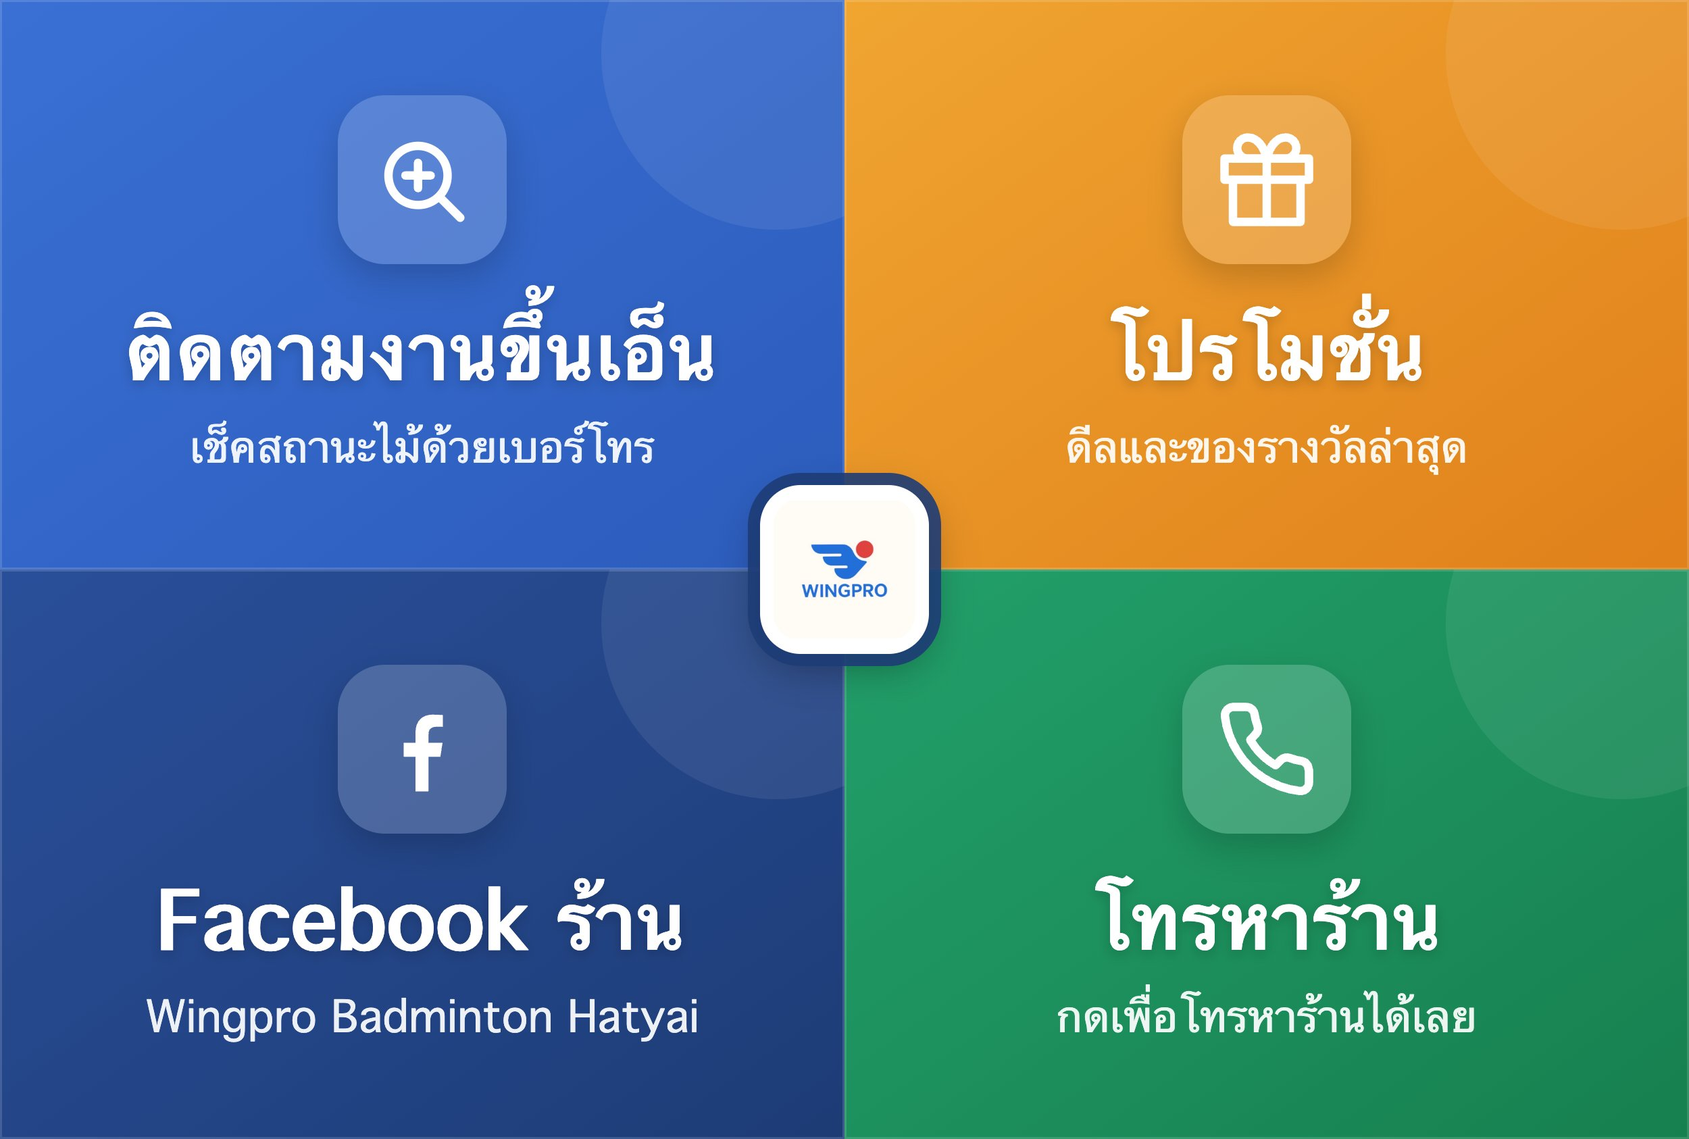
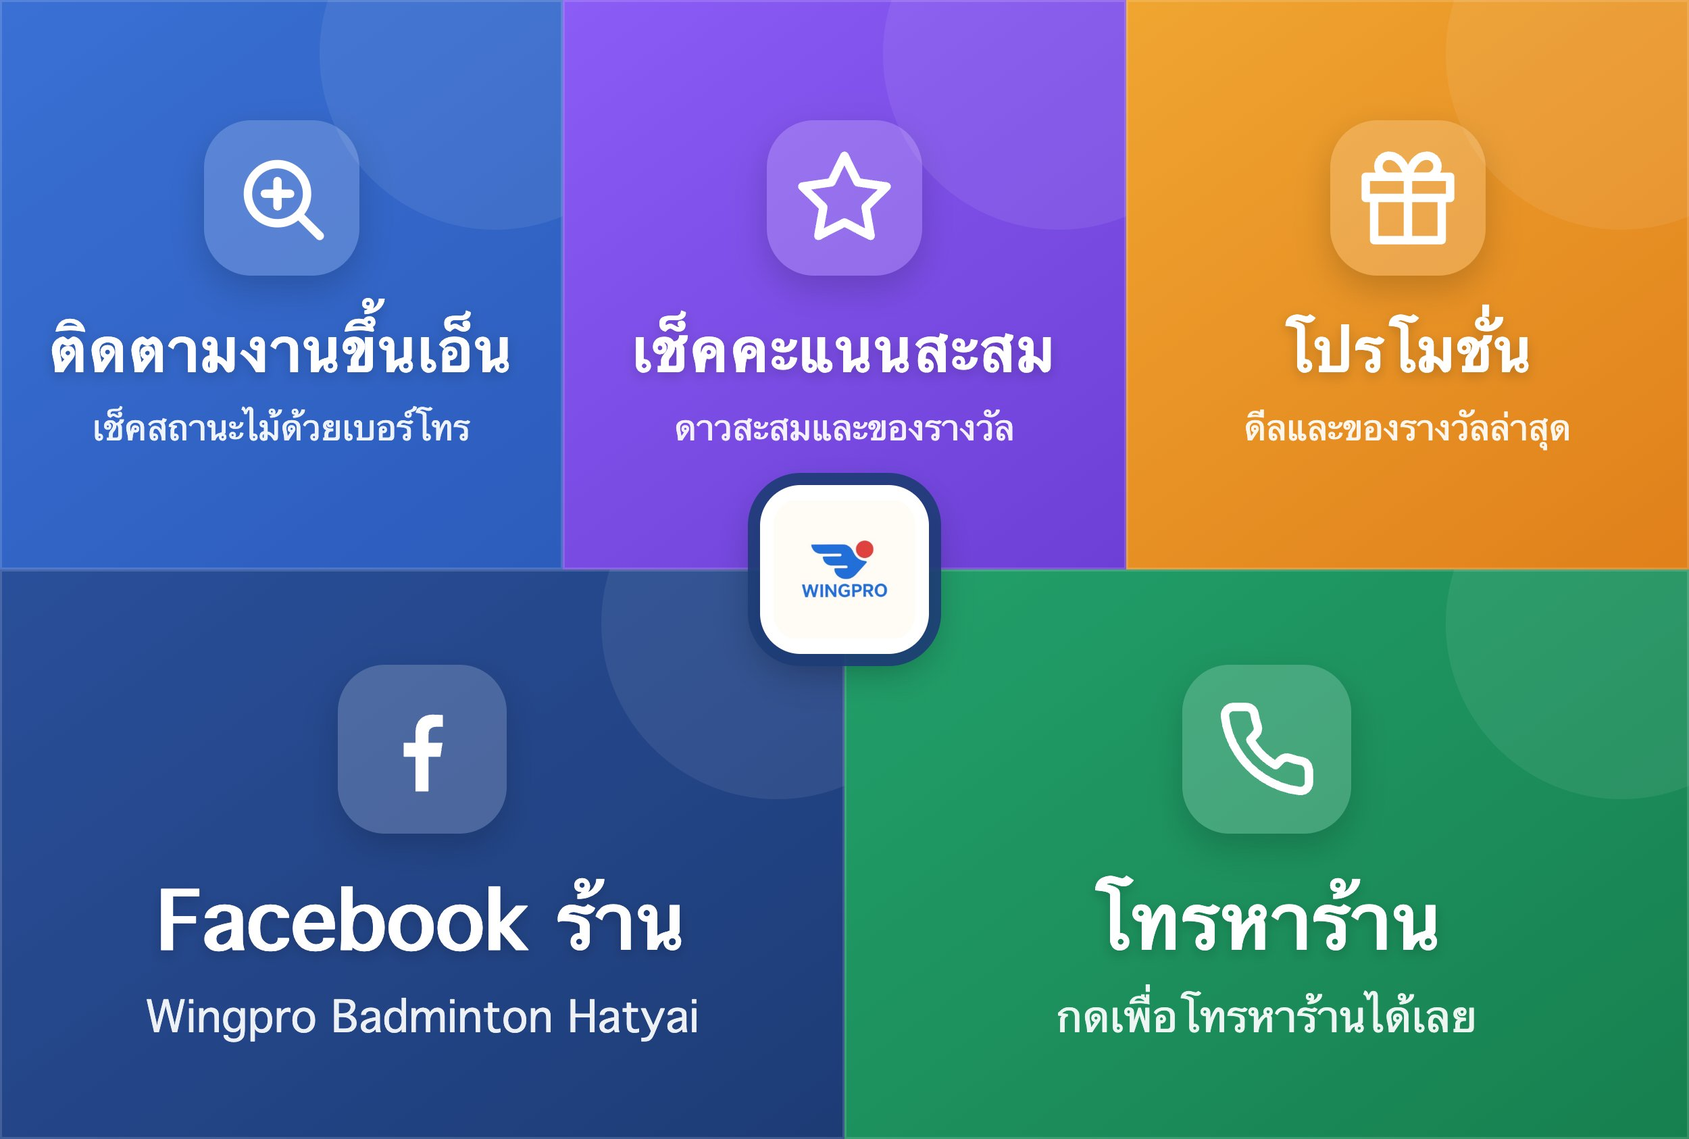
LINE rich menu: เช็คคะแนนสะสม button (5 buttons: 3 on top, 2 below)
- Stars card (Flex): count, a dot per stamp, what each reward still needs, the promo's stamping period
- Linked LINE account gets its card straight away (+ a link to its open job to redeem); otherwise type a phone
- A typed phone now answers with the stars card and the jobs still at the shop (no link, no name)
- memberStatus() moved to lib/member-status.ts, shared by the tracking page and the webhook

Changed region(s): [[0.0312, 0.0, 0.936, 0.5243]]

diff --git a/lib/line-message.ts b/lib/line-message.ts
@@ -182,3 +182,83 @@ export function promotionsMessage(promotions: Promotion[], { siteUrl = "", phone
   }));
   return carousel(`โปรโมชั่น Wingpro Badminton (${promotions.length})`, bubbles);
 }
+
+type Member = {
+  stars: number; stringNeed: number; socksNeed: number; stringAvailable: boolean; socksAvailable: boolean;
+  stringUsed: number; socksUsed: number; rewardCap: number | null; socksProductName: string | null; posMinAmount?: number;
+  promo?: { phase: string | null; start: string | null; end: string | null };
+};
+
+const PURPLE = "#6D3FD6";
+const thaiDay = (date: string) => new Date(date + "T12:00:00").toLocaleDateString("th-TH", { day: "numeric", month: "short", year: "2-digit", timeZone: "Asia/Bangkok" });
+
+// Same wording as the tracking page's stamp card, so the two never tell a customer different things.
+export function promoNote(promo: Member["promo"]) {
+  if (!promo?.phase) return "";
+  const { phase, start, end } = promo;
+  if (phase === "off") return "ปิดรับสะสมแต้มชั่วคราว · แต้มและสิทธิ์ที่มีอยู่ยังใช้ได้ตามปกติ";
+  if (phase === "before") return end ? `โปรโมชั่นสะสมแต้ม ${thaiDay(start!)} – ${thaiDay(end)}` : `โปรโมชั่นสะสมแต้มเริ่ม ${thaiDay(start!)}`;
+  if (phase === "after") return `โปรโมชั่นสะสมแต้มสิ้นสุดแล้วเมื่อ ${thaiDay(end!)} · แต้มและสิทธิ์ที่มีอยู่ยังใช้ได้ตามปกติ`;
+  if (end) return `สะสมแต้มได้ถึง ${thaiDay(end)}`;
+  if (start) return `สะสมแต้มได้ตั้งแต่ ${thaiDay(start)} เป็นต้นไป`;
+  return "";
+}
+
+// "เช็คคะแนนสะสม": stars so far, a dot per stamp (the socks milestone marked), and what each reward still needs.
+// trackUrl (the customer's own open job) is only passed for a LINE account already linked to that job - someone
+// who just typed a phone number sees the numbers, never a link into another person's job.
+export function memberCardMessage(member: Member, { trackUrl = "" }: { trackUrl?: string } = {}) {
+  const need = Math.max(1, member.stringNeed);
+  const dots = need <= 20 ? Array.from({ length: need }, (_, i) => ({
+    type: "box", layout: "vertical", width: "20px", height: "20px", cornerRadius: "10px", justifyContent: "center",
+    backgroundColor: i < member.stars ? PURPLE : TRACK,
+    ...(i === member.socksNeed - 1 && member.socksProductName ? { borderWidth: "2px", borderColor: "#E0801A" } : {}),
+    contents: [text(i < member.stars ? "★" : " ", { size: "xxs", color: "#FFFFFF", align: "center" })],
+  })) : [];
+  const cap = member.rewardCap === null || member.rewardCap === undefined ? "ฟรีค่าขึ้นเอ็นทั้งหมด" : `เอ็นมูลค่าไม่เกิน ฿${baht(member.rewardCap)}`;
+  const reward = (ready: boolean, readyText: string, waitText: string) => ({
+    type: "box", layout: "vertical", paddingAll: "10px", cornerRadius: "10px", backgroundColor: ready ? "#E6F6EE" : "#F4F6FB",
+    contents: [text(ready ? readyText : waitText, { size: "sm", color: ready ? "#17804F" : NAVY, weight: ready ? "bold" : "regular" })],
+  });
+  const note = promoNote(member.promo);
+  const ready = member.stringAvailable || member.socksAvailable;
+  return {
+    type: "flex",
+    altText: `คะแนนสะสม ${member.stars} ดาว`,
+    contents: {
+      type: "bubble",
+      size: "mega",
+      header: {
+        type: "box", layout: "vertical", paddingAll: "18px", backgroundColor: PURPLE,
+        contents: [
+          text("WINGPRO BADMINTON", { size: "xs", color: "#E5DBFF", weight: "bold" }),
+          text("บัตรสะสมดาว", { size: "xl", color: "#FFFFFF", weight: "bold" }),
+        ],
+      },
+      body: {
+        type: "box", layout: "vertical", paddingAll: "18px", spacing: "md",
+        contents: [
+          {
+            type: "box", layout: "baseline", spacing: "sm",
+            contents: [text(String(member.stars), { size: "3xl", weight: "bold", color: PURPLE, flex: 0 }), text(`/ ${need} ดาว`, { size: "md", color: MUTED })],
+          },
+          ...(dots.length ? [{ type: "box", layout: "horizontal", spacing: "xs", flexWrap: "wrap", contents: dots }] : []),
+          ...(member.socksProductName ? [reward(member.socksAvailable,
+            `🧦 แลก${member.socksProductName}ฟรีได้แล้ว! (ครบ ${member.socksNeed} ดาว)`,
+            `สะสมอีก ${Math.max(0, member.socksNeed - member.stars)} ดาว แลก${member.socksProductName}ฟรี (ครบ ${member.socksNeed} ดาว)`)] : []),
+          reward(member.stringAvailable,
+            `🎁 ขึ้นเอ็นฟรีได้แล้ว! (ครบ ${need} ดาว · ${cap})`,
+            `สะสมอีก ${Math.max(0, need - member.stars)} ดาว รับสิทธิ์ขึ้นเอ็นฟรี (ครบ ${need} ดาว · ${cap})`),
+          text(ready ? "แลกได้ที่หน้าติดตามสถานะไม้ หรือแจ้งพนักงานที่ร้าน · แลกแล้วดาวเริ่มนับใหม่" : `ได้ 1 ดาวทุกครั้งที่ขึ้นเอ็น หรือซื้อสินค้าที่ร้าน${member.posMinAmount ? ` ครบ ฿${baht(member.posMinAmount)}` : ""}`, { size: "xs", color: MUTED }),
+          ...(note ? [text(note, { size: "xs", color: "#E0801A" })] : []),
+        ],
+      },
+      ...(/^https:\/\//.test(trackUrl) ? {
+        footer: {
+          type: "box", layout: "vertical", paddingAll: "14px",
+          contents: [{ type: "button", style: "primary", color: PURPLE, height: "sm", action: { type: "uri", label: ready ? "แลกของรางวัล" : "ดูบัตรสะสมดาว", uri: trackUrl } }],
+        },
+      } : {}),
+    },
+  };
+}

diff --git a/app/api/line/route.ts b/app/api/line/route.ts
@@ -1,6 +1,7 @@
 import {runtime,db,all,one,notifyJob,replyLine,siteUrl,statuses,normalizeJobStatus} from '@/lib/server';
 import {DEFAULT_SHOP} from '@/lib/shop-hours';
-import {promotionsMessage,trackJobsMessage} from '@/lib/line-message';
+import {memberCardMessage,promotionsMessage,trackJobsMessage} from '@/lib/line-message';
+import {memberStatus} from '@/lib/member-status';
 
 // LINE OA webhook. Every request is signed with the channel secret; anything unsigned is rejected before parsing.
 async function verified(req:Request){
@@ -17,6 +18,7 @@ async function verified(req:Request){
 const ACTIVE_JOBS="status<>'ยกเลิก' AND status<>'คืนไม้แล้ว'";
 const text=(value:string)=>({type:'text',text:value});
 const ASK_PHONE=text('พิมพ์เบอร์โทรที่ใช้ตอนฝากไม้ได้เลย เช่น 0812345678 ระบบจะแสดงสถานะงานขึ้นเอ็นที่ยังอยู่ที่ร้าน');
+const ASK_PHONE_POINTS=text('พิมพ์เบอร์โทรที่ให้ไว้กับร้านได้เลย เช่น 0812345678 ระบบจะแสดงดาวสะสมและงานขึ้นเอ็นที่ยังอยู่ที่ร้าน');
 
 async function trackReply(jobs:any[],lineUser:string){
   const message=trackJobsMessage(jobs.map(j=>({...j,status:normalizeJobStatus(j.status)})),{steps:statuses,siteUrl:siteUrl(),lineUser});
@@ -30,10 +32,31 @@ async function onTrack(lineUser:string){
   return [...await trackReply(linked,lineUser),text('ถ้ามีไม้ที่ฝากด้วยเบอร์อื่น พิมพ์เบอร์นั้นมาได้เลย')];
 }
 
+async function pointsCard(phone:string,trackToken=''){
+  const config:any=await one('SELECT * FROM config WHERE id=1');
+  const member=await memberStatus(config,phone);
+  const base=siteUrl().replace(/\/$/,'');
+  return member?memberCardMessage(member,{trackUrl:trackToken&&base?`${base}/track/${trackToken}`:''}):null;
+}
+
+// A typed phone number answers both menu buttons at once (there is no conversation state to know which one asked):
+// that number's stars, then its jobs still at the shop. Anyone can type any number, so both stay compact - no name,
+// no link into the job (see trackJobsMessage / memberCardMessage).
 async function onPhone(digits:string,lineUser:string){
   const jobs=await all(`SELECT id,token,racket,status,paid,amount,created,line_user FROM jobs WHERE regexp_replace(phone,'\\D','','g')=? AND ${ACTIVE_JOBS} ORDER BY created DESC LIMIT 10`,digits);
-  if(!jobs.length)return [text('ไม่พบงานขึ้นเอ็นที่ยังอยู่ที่ร้านของเบอร์นี้ ถ้าคิดว่าไม่ถูกต้อง ติดต่อร้านได้เลย')];
-  return trackReply(jobs,lineUser);
+  const card=await pointsCard(digits);
+  const messages=[...(card?[card]:[]),...await trackReply(jobs,lineUser)];
+  return messages.length?messages:[text('ไม่พบข้อมูลของเบอร์นี้ ถ้าคิดว่าไม่ถูกต้อง ติดต่อร้านได้เลย')];
+}
+
+// "เช็คคะแนนสะสม": a LINE account already linked to a job (via the QR on its receipt) gets its card straight away,
+// with a button to its newest open job's tracking page where rewards are redeemed; otherwise ask for a phone.
+async function onPoints(lineUser:string){
+  const latest:any=await one("SELECT phone FROM jobs WHERE line_user=? AND phone IS NOT NULL AND phone<>'' ORDER BY created DESC LIMIT 1",lineUser);
+  if(!latest)return [ASK_PHONE_POINTS];
+  const open:any=await one(`SELECT token FROM jobs WHERE line_user=? AND paid=0 AND ${ACTIVE_JOBS} ORDER BY created DESC LIMIT 1`,lineUser);
+  const card=await pointsCard(latest.phone,open?.token||'');
+  return card?[card]:[ASK_PHONE_POINTS];
 }
 
 async function onPromotions(){
@@ -62,6 +85,7 @@ export async function POST(req:Request){
         const action=new URLSearchParams(e.postback?.data||'').get('action');
         if(action==='track')await replyLine(replyToken,await onTrack(lineUser));
         else if(action==='promo')await replyLine(replyToken,await onPromotions());
+        else if(action==='points')await replyLine(replyToken,await onPoints(lineUser));
         continue;
       }
       if(e.type!=='message'||e.message?.type!=='text')continue;
@@ -70,6 +94,7 @@ export async function POST(req:Request){
       if(link){await onLink(link[1],lineUser);continue;}
       // Typed text works the same as the rich-menu buttons, for anyone who types instead of tapping.
       if(/^ติดตาม/.test(message))await replyLine(replyToken,await onTrack(lineUser));
+      else if(/^(เช็ค|เช็ก)?(คะแนน|แต้ม|ดาว)/.test(message))await replyLine(replyToken,await onPoints(lineUser));
       else if(/^โปรโมชั่น|^โปร$/.test(message))await replyLine(replyToken,await onPromotions());
       else{
         const digits=message.replace(/[\s-]/g,'');

diff --git a/app/shop-settings.tsx b/app/shop-settings.tsx
@@ -144,7 +144,7 @@ export function MemberPanel({form,setForm,config,products,busy,onSave,Field}:any
 
 // ---------------------------------------------------------------- LINE OA: rich menu + promotions
 
-// Installs the 4-button rich menu (ติดตามงานขึ้นเอ็น / โปรโมชั่น / Facebook / โทร) on the shop's LINE OA. The link and
+// Installs the 5-button rich menu (ติดตามงานขึ้นเอ็น / เช็คคะแนนสะสม / โปรโมชั่น / Facebook / โทร) on the shop's LINE OA. The link and
 // phone number are saved as the shop's contact details too, so every customer-facing place shows the same ones.
 export function LineMenuPanel({config,lineReady,Field,onDone}:any){
   const [facebook,setFacebook]=useState(config.contact_facebook||''),[phone,setPhone]=useState(config.contact_phone||''),[busy,setBusy]=useState(false);
@@ -158,7 +158,7 @@ export function LineMenuPanel({config,lineReady,Field,onDone}:any){
     }catch(e:any){toast.error(e.message)}finally{setBusy(false)}
   };
   return <div className="panel report line-menu-panel"><h2>เมนูบน LINE OA (Rich menu)</h2>
-    <p className="muted">เมนู 4 ปุ่มด้านล่างแชท LINE ของร้าน: ติดตามงานขึ้นเอ็น (ลูกค้าพิมพ์เบอร์โทรเพื่อเช็คสถานะ), โปรโมชั่น, Facebook ร้าน และโทรหาร้าน</p>
+    <p className="muted">เมนู 5 ปุ่มด้านล่างแชท LINE ของร้าน: ติดตามงานขึ้นเอ็น, เช็คคะแนนสะสม (ลูกค้าพิมพ์เบอร์โทรเพื่อเช็ค), โปรโมชั่น, Facebook ร้าน และโทรหาร้าน · กดติดตั้งซ้ำเมื่อเปลี่ยนเมนู</p>
     <img className="line-menu-preview" src="/line-richmenu.jpg" alt="ตัวอย่าง rich menu"/>
     {!lineReady&&<div className="notice">ยังไม่ได้ตั้งค่า LINE Channel access token / secret จึงติดตั้งเมนูไม่ได้</div>}
     <Field label="ลิงก์ Facebook ร้าน"><input type="url" placeholder="https://www.facebook.com/..." value={facebook} onChange={e=>setFacebook(e.target.value)}/></Field>

diff --git a/lib/line-richmenu.ts b/lib/line-richmenu.ts
@@ -1,20 +1,24 @@
-// The shop's LINE OA rich menu: a 2x2 grid over public/line-richmenu.jpg (2500x1686). Pure data, so the layout and
-// actions are easy to check; app/api/line/richmenu installs it through the Messaging API.
+// The shop's LINE OA rich menu over public/line-richmenu.jpg (2500x1686): three buttons on the top row, two on the
+// bottom. Pure data, so the layout and actions are easy to check; app/api/line/richmenu installs it through the
+// Messaging API.
 export const RICH_MENU_NAME = "wingpro-main";
 export const RICH_MENU_IMAGE = "/line-richmenu.jpg";
 
+const postback = (label: string, data: string) => ({ type: "postback", label, data, displayText: label });
+
 export function richMenuBody({ facebook, phone }: { facebook: string; phone: string }) {
-  const half = { width: 1250, height: 843 };
+  const top = 843, bottom = 1686 - top;
   return {
     size: { width: 2500, height: 1686 },
     selected: true,
     name: RICH_MENU_NAME,
     chatBarText: "เมนูร้าน",
     areas: [
-      { bounds: { x: 0, y: 0, ...half }, action: { type: "postback", label: "ติดตามงานขึ้นเอ็น", data: "action=track", displayText: "ติดตามงานขึ้นเอ็น" } },
-      { bounds: { x: 1250, y: 0, ...half }, action: { type: "postback", label: "โปรโมชั่น", data: "action=promo", displayText: "โปรโมชั่น" } },
-      { bounds: { x: 0, y: 843, ...half }, action: { type: "uri", label: "Facebook ร้าน", uri: facebook } },
-      { bounds: { x: 1250, y: 843, ...half }, action: { type: "uri", label: "โทรหาร้าน", uri: `tel:${phone.replace(/[^0-9+]/g, "")}` } },
+      { bounds: { x: 0, y: 0, width: 833, height: top }, action: postback("ติดตามงานขึ้นเอ็น", "action=track") },
+      { bounds: { x: 833, y: 0, width: 834, height: top }, action: postback("เช็คคะแนนสะสม", "action=points") },
+      { bounds: { x: 1667, y: 0, width: 833, height: top }, action: postback("โปรโมชั่น", "action=promo") },
+      { bounds: { x: 0, y: top, width: 1250, height: bottom }, action: { type: "uri", label: "Facebook ร้าน", uri: facebook } },
+      { bounds: { x: 1250, y: top, width: 1250, height: bottom }, action: { type: "uri", label: "โทรหาร้าน", uri: `tel:${phone.replace(/[^0-9+]/g, "")}` } },
     ],
   };
 }

diff --git a/app/api/track/[token]/route.ts b/app/api/track/[token]/route.ts
@@ -1,27 +1,7 @@
-import {all,one} from '@/lib/server';
-import {DEFAULT_SHOP,bangkokToday,parseHours} from '@/lib/shop-hours';
-import {buildCustomers,promoOf,promoPhase,rewardDiscount} from '@/lib/customers';
-
-// The customer's own stamp progress, shown on their tracking page. Only their numbers (not their whole job/sale
-// history, and not the staff-only note) - built the same way as the "ลูกค้าสมาชิก" page, from just their own rows.
-// promo mirrors the shop's own setting exactly (lib/customers.ts's promoPhase, the same rule that gates new
-// stamps) so the customer sees why their stamps did or didn't move, not just the raw count.
-async function memberStatus(config:any,phone:string){
-  if(!('member_stamps_required' in config))return null;
-  const key=String(phone||'').replace(/\D/g,'');
-  if(key.length<9)return null;
-  const [jobs,sales]=await Promise.all([
-    all("SELECT customer,phone,racket,tension,created,status,paid,amount,reward_used FROM jobs WHERE regexp_replace(phone,'\\D','','g')=?",key),
-    all('SELECT created,total,customer_key,job_id,status,discount_reason FROM sales WHERE customer_key=?',key),
-  ]);
-  const promo=promoOf(config);
-  const [customer]=buildCustomers(jobs,{stampsRequired:config.member_stamps_required,socksStampsRequired:config.member_socks_stamps_required,sales,posMinAmount:config.member_pos_min_amount,promo});
-  if(!customer)return null;
-  // The socks reward stays off (even after the migration runs) until an owner actually picks a product for it.
-  const socksProduct=config.member_socks_product_id?await one('SELECT name FROM products WHERE id=? AND active=1',config.member_socks_product_id):null;
-  return {stars:customer.stars,stringNeed:customer.stringNeed,socksNeed:customer.socksNeed,stringAvailable:customer.stringAvailable,socksAvailable:customer.socksAvailable&&!!socksProduct,stringUsed:customer.stringUsed,socksUsed:customer.socksUsed,rewardCap:config.member_reward_cap??null,socksProductName:socksProduct?.name??null,
-    promo:{phase:promoPhase(promo,bangkokToday()),start:promo?.start??null,end:promo?.end??null}};
-}
+import {one} from '@/lib/server';
+import {DEFAULT_SHOP,parseHours} from '@/lib/shop-hours';
+import {rewardDiscount} from '@/lib/customers';
+import {memberStatus} from '@/lib/member-status';
 
 export async function GET(req:Request,{params}:any){
   const {token}=await params;

diff --git a/lib/member-status.ts b/lib/member-status.ts
@@ -1,0 +1,24 @@
+import {all,one} from './server';
+import {bangkokToday} from './shop-hours';
+import {buildCustomers,promoOf,promoPhase} from './customers';
+
+// A customer's own stamp progress, by phone: shown on their tracking page and on LINE ("เช็คคะแนนสะสม"). Only their
+// numbers (not their whole job/sale history, and not the staff-only note) - built the same way as the "ลูกค้าสมาชิก"
+// page, from just their own rows. promo mirrors the shop's own setting exactly (promoPhase, the same rule that gates
+// new stamps) so the customer sees why their stamps did or didn't move, not just the raw count.
+export async function memberStatus(config:any,phone:string){
+  if(!('member_stamps_required' in config))return null;
+  const key=String(phone||'').replace(/\D/g,'');
+  if(key.length<9)return null;
+  const [jobs,sales]=await Promise.all([
+    all("SELECT customer,phone,racket,tension,created,status,paid,amount,reward_used FROM jobs WHERE regexp_replace(phone,'\\D','','g')=?",key),
+    all('SELECT created,total,customer_key,job_id,status,discount_reason FROM sales WHERE customer_key=?',key),
+  ]);
+  const promo=promoOf(config);
+  const [customer]=buildCustomers(jobs,{stampsRequired:config.member_stamps_required,socksStampsRequired:config.member_socks_stamps_required,sales,posMinAmount:config.member_pos_min_amount,promo});
+  if(!customer)return null;
+  // The socks reward stays off (even after the migration runs) until an owner actually picks a product for it.
+  const socksProduct=config.member_socks_product_id?await one('SELECT name FROM products WHERE id=? AND active=1',config.member_socks_product_id):null;
+  return {stars:customer.stars,stringNeed:customer.stringNeed,socksNeed:customer.socksNeed,stringAvailable:customer.stringAvailable,socksAvailable:customer.socksAvailable&&!!socksProduct,stringUsed:customer.stringUsed,socksUsed:customer.socksUsed,rewardCap:config.member_reward_cap??null,socksProductName:socksProduct?.name??null,posMinAmount:Number(config.member_pos_min_amount)||0,
+    promo:{phase:promoPhase(promo,bangkokToday()),start:promo?.start??null,end:promo?.end??null}};
+}
